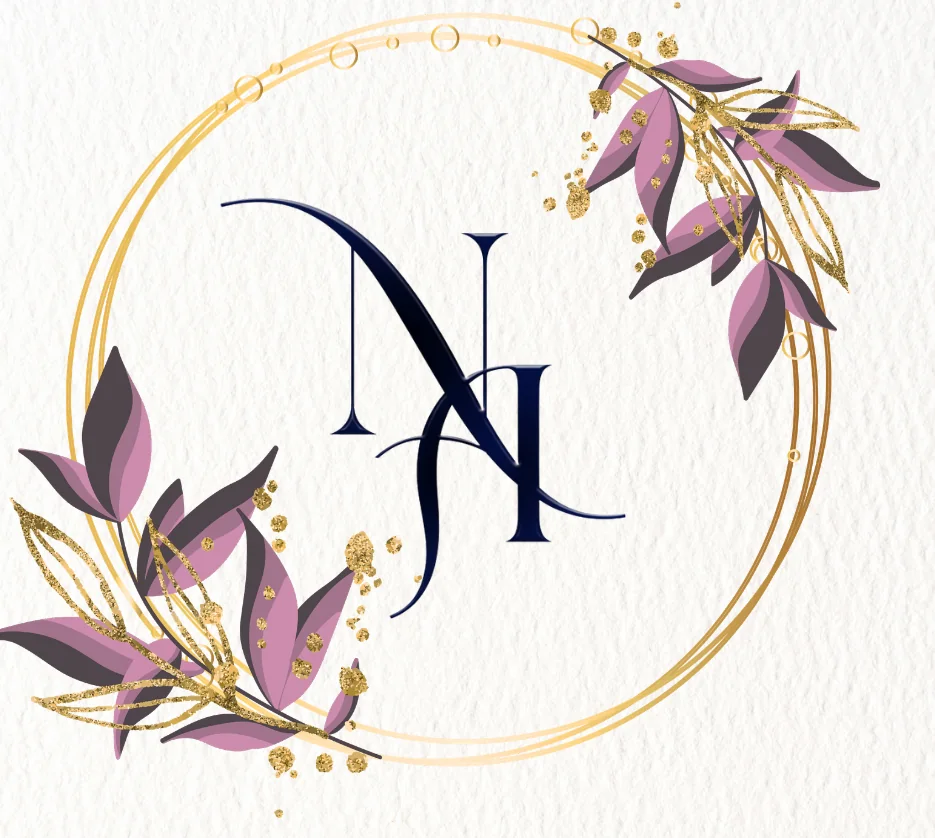
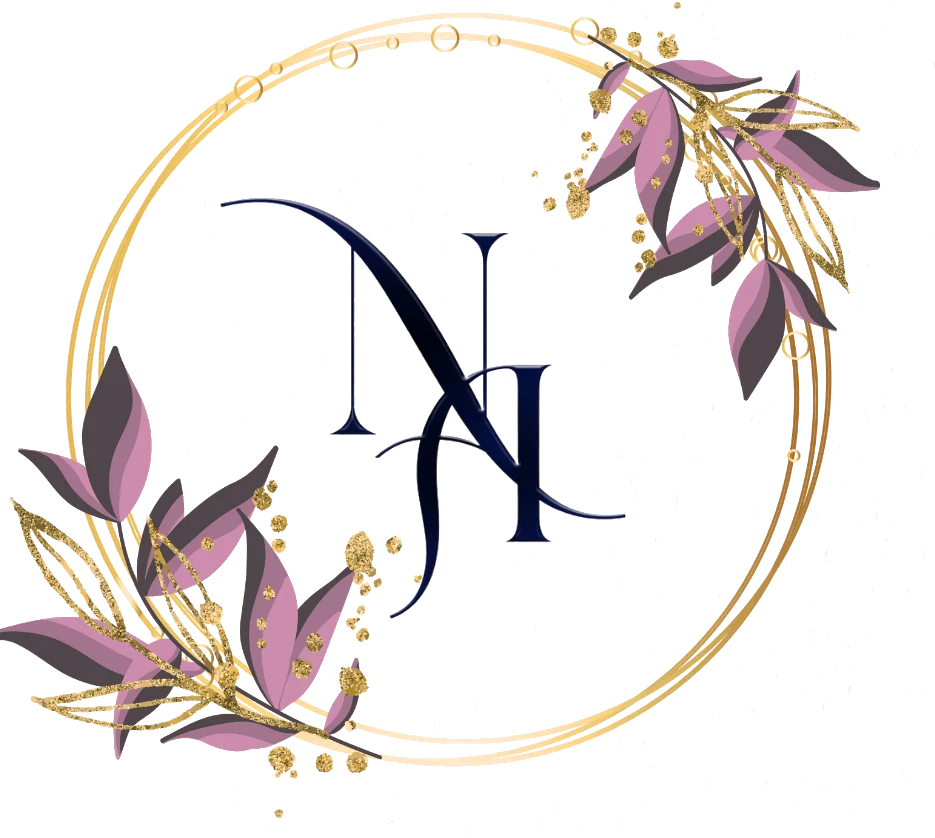
feat: update color scheme and styles across components for a cohesive design

diff --git a/wedding-juwe/src/components/Hero.tsx b/wedding-juwe/src/components/Hero.tsx
@@ -3,36 +3,34 @@ import Monogram from './Monogram'
 
 export default function Hero() {
   return (
-    <header className="relative overflow-hidden bg-gradient-to-b from-maroon-deep via-maroon to-maroon px-6 pb-16 pt-14 text-center text-cream">
+    <header className="relative overflow-hidden bg-paper px-6 pb-14 pt-12 text-center text-navy">
       {/* corner flourishes */}
       <CornerOrnament className="absolute left-3 top-3" />
       <CornerOrnament className="absolute right-3 top-3 -scale-x-100" />
 
-      <p className="font-arabic text-2xl text-gold-soft" dir="rtl">
+      <p className="font-arabic text-2xl text-navy/85" dir="rtl">
         بِسْمِ اللهِ الرَّحْمٰنِ الرَّحِيْم
       </p>
 
-      <p className="mt-6 font-display text-sm uppercase tracking-[0.45em] text-gold-soft">
+      <p className="mt-6 text-[0.7rem] uppercase tracking-[0.45em] text-plum">
         Raikan Cinta
       </p>
 
-      <Monogram className="mx-auto mt-5 mb-7 w-[19rem] max-w-[86%]" />
+      <Monogram className="mx-auto mt-2 mb-4 w-[21rem] max-w-[90%]" />
 
-      <h1 className="font-display text-5xl leading-tight text-gold-soft sm:text-6xl">
+      <h1 className="font-display text-6xl leading-tight text-navy">
         Najwan Shah
       </h1>
-      <p className="my-1 font-display text-3xl italic text-cream/80">dan</p>
-      <h1 className="font-display text-5xl leading-tight text-gold-soft sm:text-6xl">
-        Aisyah
-      </h1>
+      <p className="my-1 font-display text-3xl italic text-plum/80">dan</p>
+      <h1 className="font-display text-6xl leading-tight text-navy">Aisyah</h1>
 
-      <Divider className="mt-9" />
+      <Divider className="mt-8" />
 
       <div className="mt-7 space-y-1">
-        <p className="font-display text-2xl tracking-wide text-cream">
+        <p className="font-display text-2xl tracking-wide text-navy">
           Sabtu, 8 Ogos 2026
         </p>
-        <p className="text-cream/70">Masjid Sri Sendayan</p>
+        <p className="text-navy/60">Masjid Sri Sendayan</p>
       </div>
     </header>
   )
@@ -41,7 +39,7 @@ export default function Hero() {
 function CornerOrnament({ className = '' }: { className?: string }) {
   return (
     <svg
-      className={`h-16 w-16 text-gold/40 ${className}`}
+      className={`h-16 w-16 text-gold/60 ${className}`}
       viewBox="0 0 64 64"
       fill="none"
       aria-hidden="true"

diff --git a/wedding-juwe/src/index.css b/wedding-juwe/src/index.css
@@ -5,6 +5,9 @@
   --color-gold-soft: #e2c97a;
   --color-maroon: #6e1722;
   --color-maroon-deep: #561019;
+  --color-navy: #1e2352;
+  --color-navy-deep: #141833;
+  --color-plum: #7c556f;
   --color-green: #1f4d36;
   --color-cream: #fbf6ec;
   --color-cream-deep: #f3ead6;
@@ -17,10 +20,18 @@
 body {
   margin: 0;
   background-color: var(--color-cream);
-  color: var(--color-maroon);
+  color: var(--color-navy);
   font-family: var(--font-body);
   font-size: 18px;
   -webkit-font-smoothing: antialiased;
+}
+
+/* soft watercolour-paper wash for the hero, echoing the crest artwork */
+.bg-paper {
+  background-color: var(--color-cream);
+  background-image:
+    radial-gradient(130% 90% at 50% -12%, #fffdf7 0%, var(--color-cream) 58%),
+    radial-gradient(60% 50% at 50% 118%, rgba(124, 85, 111, 0.06), transparent 70%);
 }
 
 /* Subtle songket-style diamond lattice for the cream sections */

diff --git a/wedding-juwe/src/components/WishForm.tsx b/wedding-juwe/src/components/WishForm.tsx
@@ -4,8 +4,8 @@ import { createWish, type Wish } from '../api/wishes'
 type Props = { onCreated: (wish: Wish) => void }
 
 const fieldClass =
-  'w-full rounded-lg border border-gold/40 bg-white/80 px-4 py-3 text-maroon ' +
-  'placeholder:text-maroon/30 outline-none transition focus:border-gold ' +
+  'w-full rounded-lg border border-gold/40 bg-white/80 px-4 py-3 text-navy ' +
+  'placeholder:text-navy/30 outline-none transition focus:border-gold ' +
   'focus:ring-2 focus:ring-gold/30'
 
 export default function WishForm({ onCreated }: Props) {
@@ -66,7 +66,7 @@ export default function WishForm({ onCreated }: Props) {
         />
       </div>
 
-      {error && <p className="text-sm text-maroon">{error}</p>}
+      {error && <p className="text-sm text-plum">{error}</p>}
       {status === 'done' && (
         <p className="text-center text-sm text-green">
           Terima kasih atas ucapan anda 🤍
@@ -76,9 +76,9 @@ export default function WishForm({ onCreated }: Props) {
       <button
         type="submit"
         disabled={status === 'sending'}
-        className="w-full rounded-lg bg-gradient-to-b from-maroon to-maroon-deep py-3.5
+        className="w-full rounded-lg bg-gradient-to-b from-navy to-navy-deep py-3.5
           text-sm uppercase tracking-[0.2em] text-gold-soft shadow-md transition
-          hover:from-maroon-deep hover:to-maroon active:scale-[0.99]
+          hover:from-navy-deep hover:to-navy active:scale-[0.99]
           disabled:opacity-60"
       >
         {status === 'sending' ? 'Menghantar…' : 'Hantar Ucapan'}

diff --git a/wedding-juwe/src/components/Monogram.tsx b/wedding-juwe/src/components/Monogram.tsx
@@ -2,15 +2,15 @@ import crest from '../assets/monogram-crest.webp'
 
 /**
  * The couple's wreath crest (gold ring, plum/gold florals, N·H monogram),
- * lifted from the Canva artwork and framed as a cream enclosure card so the
- * navy monogram reads against the maroon hero.
+ * extracted from the Canva artwork on a transparent background so it sits
+ * directly on the cream hero.
  */
 export default function Monogram({ className = '' }: { className?: string }) {
   return (
     <img
       src={crest}
       alt="Najwan Shah & Aisyah monogram"
-      className={`rounded-3xl border border-gold/60 shadow-[0_14px_30px_-10px_rgba(0,0,0,0.55)] ${className}`}
+      className={className}
     />
   )
 }

diff --git a/wedding-juwe/src/components/WishList.tsx b/wedding-juwe/src/components/WishList.tsx
@@ -9,7 +9,7 @@ function initial(name: string) {
 export default function WishList({ wishes }: Props) {
   if (wishes.length === 0) {
     return (
-      <p className="text-center font-display text-lg italic text-maroon/50">
+      <p className="text-center font-display text-lg italic text-navy/50">
         Jadilah yang pertama meninggalkan ucapan.
       </p>
     )
@@ -25,13 +25,13 @@ export default function WishList({ wishes }: Props) {
           <div className="flex items-center gap-3">
             <span
               className="flex h-10 w-10 shrink-0 items-center justify-center rounded-full
-                bg-maroon font-display text-lg text-gold-soft"
+                bg-navy font-display text-lg text-gold-soft"
             >
               {initial(wish.name)}
             </span>
             <p className="font-display text-xl text-green">{wish.name}</p>
           </div>
-          <p className="mt-3 leading-relaxed text-maroon/85">{wish.message}</p>
+          <p className="mt-3 leading-relaxed text-navy/85">{wish.message}</p>
         </li>
       ))}
     </ul>

diff --git a/wedding-juwe/src/components/WishesSection.tsx b/wedding-juwe/src/components/WishesSection.tsx
@@ -18,7 +18,7 @@ export default function WishesSection() {
   return (
     <section className="bg-songket px-5 py-14">
       <div className="mx-auto max-w-md">
-        <h2 className="text-center font-display text-4xl text-maroon">
+        <h2 className="text-center font-display text-4xl text-navy">
           Ucapan &amp; Doa
         </h2>
         <Divider className="mt-4" />
@@ -29,7 +29,7 @@ export default function WishesSection() {
 
         <div className="mt-10">
           {loading ? (
-            <p className="text-center text-maroon/50">Memuatkan ucapan…</p>
+            <p className="text-center text-navy/50">Memuatkan ucapan…</p>
           ) : (
             <>
               {wishes.length > 0 && (

diff --git a/wedding-juwe/src/App.tsx b/wedding-juwe/src/App.tsx
@@ -6,7 +6,7 @@ export default function App() {
     <main className="mx-auto min-h-screen max-w-md bg-cream shadow-xl">
       <Hero />
       <WishesSection />
-      <footer className="bg-maroon-deep py-7 text-center text-cream/60">
+      <footer className="bg-navy-deep py-7 text-center text-cream/60">
         <p className="font-display text-xl text-gold-soft">Najwan &amp; Aisyah</p>
         <p className="mt-1 text-xs uppercase tracking-[0.3em]">8 Ogos 2026</p>
       </footer>